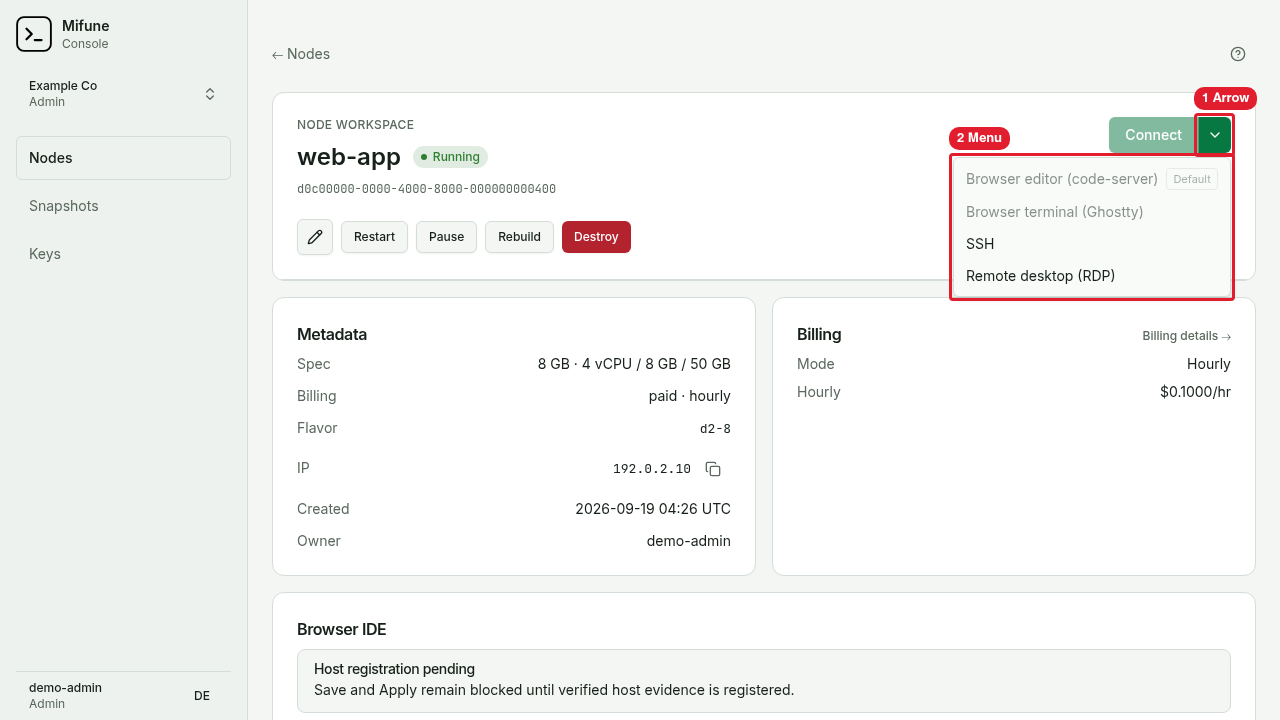
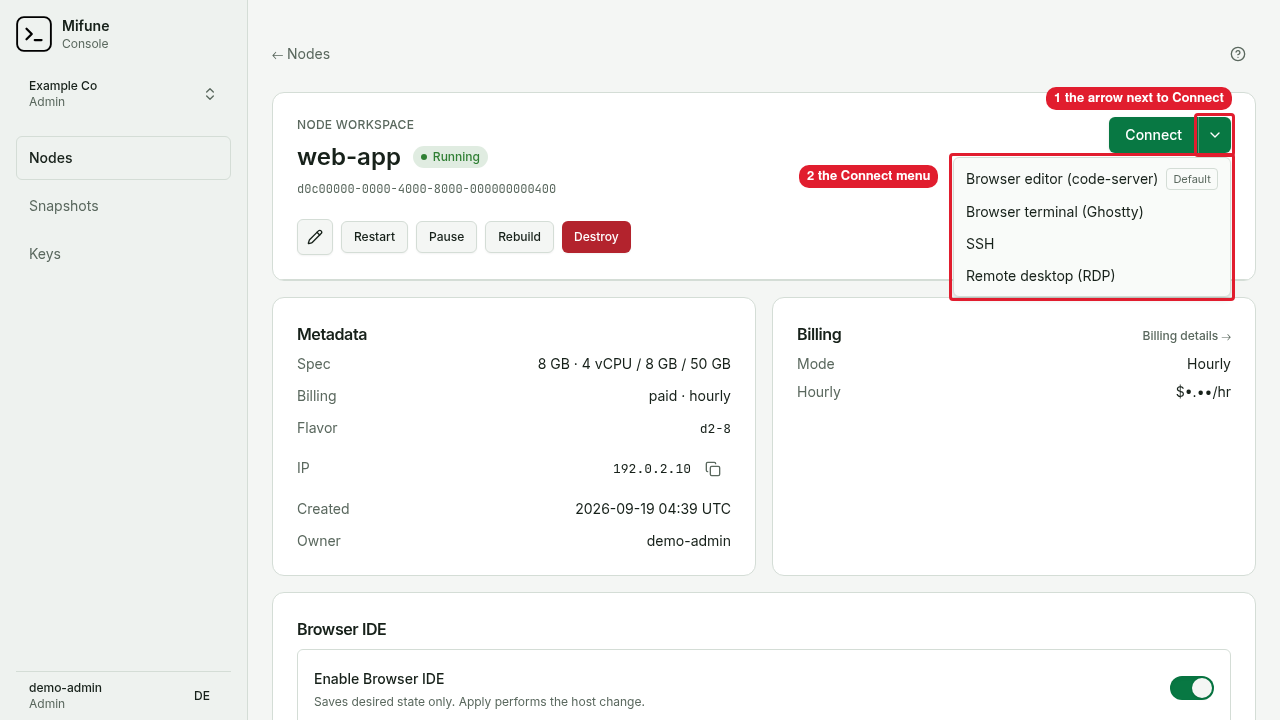
docs: retake the running-node screenshots with ready nodes (#72)

diff --git a/docs/console/connect.md b/docs/console/connect.md
@@ -145,8 +145,8 @@ When you create a node, open **Advanced: direct SSH access (optional)** and sele
    ssh -i ~/.ssh/<your-key-file> <user>@<node-ip>
    ```
 
-   ![The SSH dialog shows the SSH command for web-app.](/img/console/connect-2.png)
-   Callouts: 1 is the SSH command. 2 is the copy button.
+   ![The SSH dialog shows the SSH command and the host fingerprint for web-app.](/img/console/connect-2.png)
+   Callouts: 1 is the SSH command. 2 is the host fingerprint.
 
 5. Replace `<your-key-file>` with your private key file. Make sure that the file has the permissions `600`.
 6. Run the command in the terminal on your computer.

diff --git a/docs/console/free-tier.md b/docs/console/free-tier.md
@@ -43,7 +43,7 @@ The Console shows the free hours in these locations:
 - The node page of the free node shows **Free hours left** and **Free hours reset**.
 
   ![The Billing card of a running free node shows the free hours left and the reset date.](/img/console/free-tier-1.png)
-  Callouts: 1 is **Free hours left** and **Free hours reset**.
+  Callouts: 1 is the **Billing** card with **Free hours left** and **Free hours reset**.
 
 - The **Billing** page shows the **Free running hours** card. The card shows **Used this month**, **Left this month**, and **Resets**.
 - The **Nodes** page shows the free hours left and the reset date.
